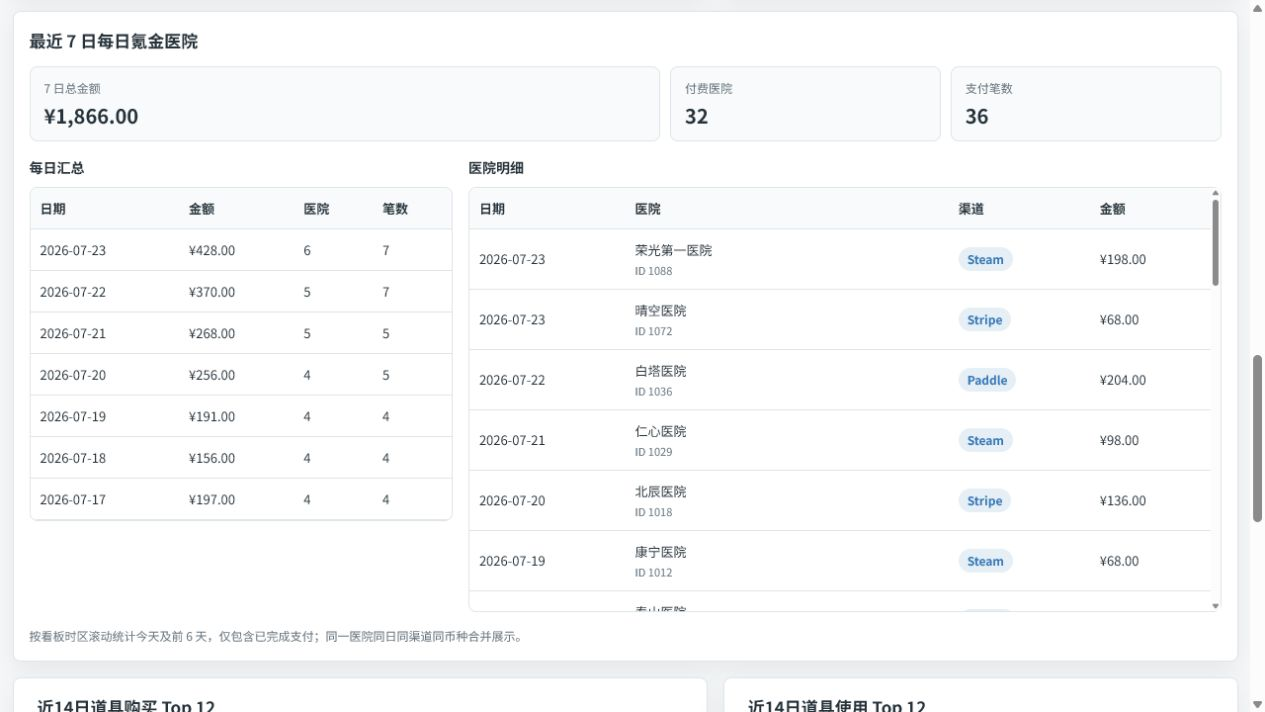
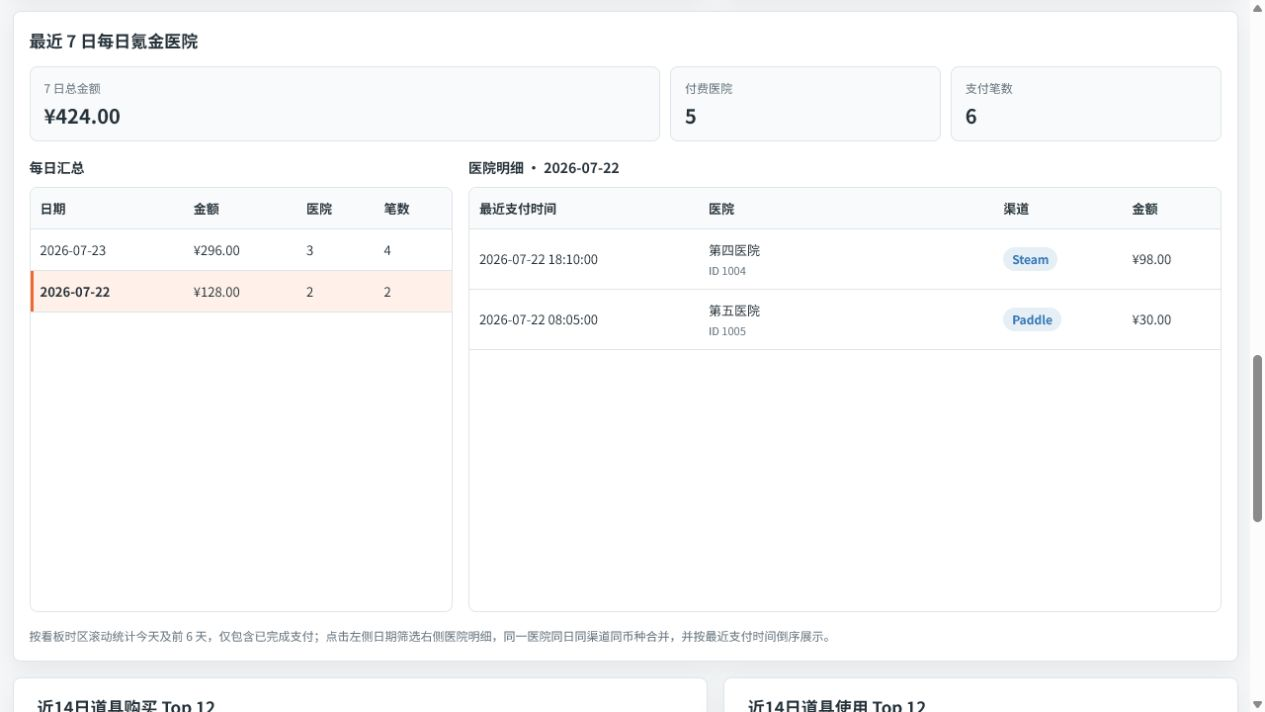
fix: link daily payment summary and details

diff --git a/app/templates/dashboard.html b/app/templates/dashboard.html
@@ -232,9 +232,14 @@
         .paying-hospital-grid { display: grid; grid-template-columns: minmax(320px, 0.72fr) minmax(520px, 1.28fr); gap: 16px; align-items: start; }
         .paying-hospital-grid > div { min-width: 0; }
         .paying-hospital-grid h3 { margin: 0 0 10px; font-size: 14px; }
-        .paying-hospital-scroll { max-height: 430px; overflow: auto; border: 1px solid var(--line); }
+        .paying-hospital-scroll { height: 430px; max-height: 430px; overflow: auto; border: 1px solid var(--line); }
         .paying-hospital-scroll thead { position: sticky; top: 0; z-index: 1; }
         .paying-summary-table { min-width: 380px; }
+        .paying-summary-row { cursor: pointer; }
+        .paying-summary-row:hover td { background: var(--teal-soft); }
+        .paying-summary-row.is-selected td { background: var(--primary-soft); }
+        .paying-summary-row.is-selected td:first-child { box-shadow: inset 3px 0 0 var(--primary); font-weight: 760; }
+        .paying-summary-row:focus-visible { outline: 3px solid rgba(7, 156, 156, 0.24); outline-offset: -3px; }
         .hospital-cell { display: grid; gap: 3px; min-width: 160px; }
         .hospital-cell small { color: var(--muted); font-size: 11px; }
         table { width: 100%; min-width: 620px; border-collapse: collapse; font-size: 13px; }
@@ -302,6 +307,7 @@
             .grid { grid-template-columns: 1fr; }
             .purchase-grid { grid-template-columns: 1fr; }
             .paying-hospital-grid { grid-template-columns: 1fr; }
+            .paying-hospital-scroll { height: auto; min-height: 220px; max-height: 430px; }
         }
         @media (max-width: 680px) {
             .shell { width: 100%; padding: 14px 12px 24px; }
@@ -401,13 +407,13 @@
                         </div>
                     </div>
                     <div>
-                        <h3>医院明细</h3>
+                        <h3 id="payingHospitalDetailTitle">医院明细</h3>
                         <div class="table-scroll paying-hospital-scroll">
-                            <table><thead><tr><th>日期</th><th>医院</th><th>渠道</th><th>金额</th></tr></thead><tbody id="payingHospitalRows"></tbody></table>
+                            <table><thead><tr><th>最近支付时间</th><th>医院</th><th>渠道</th><th>金额</th></tr></thead><tbody id="payingHospitalRows"></tbody></table>
                         </div>
                     </div>
                 </div>
-                <div class="note">按看板时区滚动统计今天及前 6 天，仅包含已完成支付；同一医院同日同渠道同币种合并展示。</div>
+                <div class="note">按看板时区滚动统计今天及前 6 天，仅包含已完成支付；点击左侧日期筛选右侧医院明细，同一医院同日同渠道同币种合并，并按最近支付时间倒序展示。</div>
             </div>
             <div class="panel">
                 <h2 class="chart-plot-title">近14日道具购买 Top 12</h2>
@@ -634,6 +640,7 @@
     let currentPage = 'overall';
     let statTableRequestId = 0;
     const statTableState = {tab: 'items', page: 1, pageSize: 20, total: 0};
+    const payingHospitalState = {data: null, selectedDay: null};
     const specialClinicState = {data: null, selectedWeekKey: null, latestWeekKey: null, userSelectedWeek: false, loadingWeekKey: null};
     const THEME_STORAGE_KEY = 'ops-dashboard-theme';
 
@@ -1135,14 +1142,57 @@
     }
 
     function renderPayingHospitals(data) {
+        payingHospitalState.data = data;
+        const days = [...new Set((data.dailySummary || []).map(row => row.day).filter(Boolean))].sort().reverse();
+        if (!days.includes(payingHospitalState.selectedDay)) payingHospitalState.selectedDay = days[0] || null;
         const totals = data.currencyTotals || [];
         setText('payingHospitalAmountTotal', totals.length ? totals.map(row => formatCurrencyAmount(row.amount, row.currency)).join(' / ') : '0.00');
         setText('payingHospitalCountTotal', formatNumber(data.hospitalCount));
         setText('payingHospitalOrderTotal', formatNumber(data.orderCount));
-        renderSimpleRows('payingHospitalSummaryRows', data.dailySummary || [], ['day', 'amount', 'hospital_count', 'orders'], {
-            amount: (value, row) => escapeHtml(formatCurrencyAmount(value, row.currency)),
+        renderPayingHospitalSummaryRows();
+        renderPayingHospitalDetailRows();
+    }
+
+    function selectPayingHospitalDay(day) {
+        if (!day || day === payingHospitalState.selectedDay) return;
+        payingHospitalState.selectedDay = day;
+        renderPayingHospitalSummaryRows();
+        renderPayingHospitalDetailRows();
+    }
+
+    function renderPayingHospitalSummaryRows() {
+        const tbody = document.getElementById('payingHospitalSummaryRows');
+        const rows = payingHospitalState.data?.dailySummary || [];
+        tbody.innerHTML = '';
+        if (!rows.length) {
+            tbody.innerHTML = '<tr><td colspan="4">没有数据</td></tr>';
+            return;
+        }
+        rows.forEach(row => {
+            const tr = document.createElement('tr');
+            const selected = row.day === payingHospitalState.selectedDay;
+            tr.className = `paying-summary-row${selected ? ' is-selected' : ''}`;
+            tr.dataset.payingDay = row.day || '';
+            tr.tabIndex = 0;
+            tr.setAttribute('aria-selected', selected ? 'true' : 'false');
+            tr.addEventListener('click', () => selectPayingHospitalDay(row.day));
+            tr.addEventListener('keydown', event => {
+                if (event.key !== 'Enter' && event.key !== ' ') return;
+                event.preventDefault();
+                selectPayingHospitalDay(row.day);
+            });
+            tr.innerHTML = `<td>${escapeHtml(row.day || '-')}</td><td>${escapeHtml(formatCurrencyAmount(row.amount, row.currency))}</td><td>${formatNumber(row.hospital_count)}</td><td>${formatNumber(row.orders)}</td>`;
+            tbody.appendChild(tr);
         });
-        renderSimpleRows('payingHospitalRows', data.rows || [], ['day', 'hospital_id', 'channel', 'amount'], {
+    }
+
+    function renderPayingHospitalDetailRows() {
+        const day = payingHospitalState.selectedDay;
+        const rows = (payingHospitalState.data?.rows || [])
+            .filter(row => row.day === day)
+            .sort((left, right) => String(right.last_payment_time || '').localeCompare(String(left.last_payment_time || '')));
+        setText('payingHospitalDetailTitle', day ? `医院明细 · ${day}` : '医院明细');
+        renderSimpleRows('payingHospitalRows', rows, ['last_payment_time', 'hospital_id', 'channel', 'amount'], {
             hospital_id: (value, row) => `<div class="hospital-cell"><span>${escapeHtml(row.hospital_name || '未命名医院')}</span><small>ID ${escapeHtml(value ?? '-')}</small></div>`,
             channel: value => `<span class="pill">${escapeHtml(value || '-')}</span>`,
             amount: (value, row) => escapeHtml(formatCurrencyAmount(value, row.currency)),

diff --git a/tests/test_app_contract.py b/tests/test_app_contract.py
@@ -263,6 +263,8 @@ class AppContractTest(unittest.TestCase):
         self.assertIn("where status = 'COMPLETED' and delivered is true", source)
         self.assertIn("PAYING_HOSPITAL_WINDOW_DAYS - 1", source)
         self.assertIn("left join t_hospitals h on h.id = o.hospital_id", source)
+        self.assertIn("to_char(max(o.update_time)", source)
+        self.assertIn("order by max(o.update_time) desc", source)
 
     def test_daily_paying_hospital_summary_keeps_currencies_separate(self):
         result = app_module.summarize_daily_paying_hospitals([
@@ -290,9 +292,17 @@ class AppContractTest(unittest.TestCase):
         self.assertIn('id="payingHospitalSummaryRows"', html)
         self.assertIn('id="payingHospitalRows"', html)
         self.assertIn("renderPayingHospitals", html)
+        self.assertIn("renderPayingHospitalSummaryRows", html)
+        self.assertIn("renderPayingHospitalDetailRows", html)
+        self.assertIn("selectPayingHospitalDay", html)
+        self.assertIn("payingHospitalState", html)
+        self.assertIn("dataset.payingDay", html)
         self.assertIn("paying-hospital-scroll", html)
+        self.assertIn("height: 430px; max-height: 430px", html)
+        self.assertIn("height: auto; min-height: 220px; max-height: 430px", html)
         self.assertIn(".paying-hospital-grid > div { min-width: 0; }", html)
-        self.assertIn("同一医院同日同渠道同币种合并展示", html)
+        self.assertIn("最近支付时间", html)
+        self.assertIn("点击左侧日期筛选右侧医院明细", html)
 
     def test_special_clinic_reward_charts_separate_items_and_resources(self):
         client = app.test_client()

diff --git a/app/app.py b/app/app.py
@@ -826,6 +826,7 @@ def load_daily_paying_hospitals(conn):
             where status = 'COMPLETED' and delivered is true
         )
         select ((o.update_time at time zone 'UTC' at time zone %s)::date)::text as day,
+               to_char(max(o.update_time) at time zone 'UTC' at time zone %s, 'YYYY-MM-DD HH24:MI:SS') as last_payment_time,
                o.hospital_id,
                coalesce(h.hospital_name, '') as hospital_name,
                o.channel,
@@ -836,10 +837,10 @@ def load_daily_paying_hospitals(conn):
         left join t_hospitals h on h.id = o.hospital_id
         where (o.update_time at time zone 'UTC' at time zone %s)::date
               >= (now() at time zone %s)::date - %s
-        group by 1, 2, 3, 4, 5
-        order by day desc, amount_minor desc, o.hospital_id desc, o.channel
+        group by 1, 3, 4, 5, 6
+        order by max(o.update_time) desc, o.hospital_id desc, o.channel
         """,
-        (ZONE_ID, ZONE_ID, ZONE_ID, PAYING_HOSPITAL_WINDOW_DAYS - 1),
+        (ZONE_ID, ZONE_ID, ZONE_ID, ZONE_ID, PAYING_HOSPITAL_WINDOW_DAYS - 1),
     )
     for row in rows:
         row["amount"] = major_amount(row.pop("amount_minor", 0))

diff --git a/docs/investigations/daily-paying-hospitals/test_results.md b/docs/investigations/daily-paying-hospitals/test_results.md
@@ -7,15 +7,18 @@
 
 ## 浏览器验证
 
-- 数据：本地模拟 32 条医院聚合明细和 7 条每日汇总。
-- 桌面视口：1440 x 1000。
-- 桌面结果：双栏布局生效，页面无横向溢出，医院明细区域 `scrollHeight=1994`、`clientHeight=428`，可纵向滚动；控制台 0 条警告和错误。
-- 桌面补充结果：1280 x 720 视口下每日汇总没有横向溢出，医院明细保持纵向滚动，页面没有横向溢出。
+- 数据：本地模拟 5 条医院聚合明细和 2 条每日汇总，明细输入顺序刻意打乱。
+- 桌面视口：1280 x 720。
+- 桌面结果：左右滚动区域高度均为 430；默认选中 `2026-07-23`，点击 `2026-07-22` 后右侧从 3 条切换为该日 2 条，时间依次为 `18:10:00`、`08:05:00`；页面没有横向溢出，控制台 0 条警告和错误。
 - 移动端视口：390 x 844。
-- 移动端结果：统计卡片和两张表改为单列；网格宽度 325，面板宽度 351，页面没有横向溢出；每日汇总和医院明细均可在自身区域横向滚动，医院明细同时可纵向滚动；控制台 0 条警告和错误。
+- 移动端结果：统计卡片和两张表改为单列，两个滚动区域按内容自适应且最小高度均为 220；页面没有横向溢出，表格可在自身区域横向滚动；控制台 0 条警告和错误。
 - 截图：`ui-verification-desktop.png`、`ui-verification-mobile.png`。
+
+## 生产只读 SQL
+
+- 执行位置：统计节点只读 PostgreSQL 连接。
+- 结果：返回 34 条聚合明细，前三条最近支付时间为 `2026-07-23 16:21:10`、`11:51:10`、`01:33:43`，全量结果按最近支付时间倒序。
 
 ## 未执行项
 
-- 生产数据库 SQL：本机缺少只读生产连接配置。
 - 本地页面的既有统计明细接口依赖生产库，测试环境返回 500；浏览器验证聚焦本次新增的氪金医院区域，新增区域由本地模拟数据驱动，浏览器控制台没有错误。

diff --git a/README.md b/README.md
@@ -60,7 +60,7 @@ docker compose down
 - 每日趋势图会用生产库近14日数据覆盖同日本地快照，快照日期按 `OPS_DASHBOARD_TIME_ZONE` 计算，避免早期或错日快照遮盖真实数据。
 - 数据库暂不可用时，页面仍返回空统计并在备注中显示数据源错误，避免首屏变成 500。
 - 顶部今日收入拆分为 Stripe 和 Steam 两张卡片，分别展示 CNY 金额、订单数和元宝。
-- 运营总览增加最近 7 日每日氪金医院清单。统计范围为看板时区内今天及前 6 天，Stripe、Paddle 仅纳入 `COMPLETED` 订单，Steam 仅纳入 `COMPLETED` 且已发货订单；明细按日期、医院、渠道和币种聚合金额，并同时展示每日汇总、7 日付费医院数、支付笔数和分币种总金额。明细与每日汇总使用固定高度滚动区域。
+- 运营总览增加最近 7 日每日氪金医院清单。统计范围为看板时区内今天及前 6 天，Stripe、Paddle 仅纳入 `COMPLETED` 订单，Steam 仅纳入 `COMPLETED` 且已发货订单；明细按日期、医院、渠道和币种聚合金额，并同时展示每日汇总、7 日付费医院数、支付笔数和分币种总金额。每日汇总与医院明细使用相同的固定高度；默认选中最新日期，点击或使用键盘选择左侧日期会筛选右侧明细，右侧按每组订单的最近支付时间倒序展示。
 - 图表区包含近14日元宝消耗按小时统计、滚动最近10周元宝消耗总量，以及滚动最近10周元宝购入量；消耗口径为 `t_log_yuanbao` 中 `old_value > new_value` 的减少量，购入口径为已完成支付订单的 `yuanbao_amount`，周统计按周一至周日聚合。
 - 图表下方提供道具、金钱、元宝、声望、公会、注册者统计页签，每页支持 20、50、100 条分页。
 - 页面刷新按钮显示当前页签状态；后台加载中的其他页签在页签按钮上独立显示旋转状态。

diff --git a/docs/investigations/daily-paying-hospitals/FINAL_RECEIPT.md b/docs/investigations/daily-paying-hospitals/FINAL_RECEIPT.md
@@ -1,7 +1,7 @@
 # 最终回执
 
 - 状态：完成
-- 交付内容：最近 7 日每日氪金医院明细、每日汇总、7 日总览、滚动列表、需求说明、自动化测试。
-- 验证状态：40 项单元测试、桌面浏览器检查、移动端浏览器检查、控制台检查和两张截图均已通过。
-- 数据验证范围：浏览器使用本地模拟数据；本机未配置生产只读数据库，生产 SQL 未执行。
+- 交付内容：最近 7 日每日氪金医院明细、每日汇总、7 日总览、同高双栏、左侧日期筛选、最近支付时间倒序、响应式滚动列表、需求说明和自动化测试。
+- 验证状态：40 项单元测试、生产只读 SQL、桌面点击联动、移动端布局、控制台检查和两张截图均已通过。
+- 数据验证范围：浏览器交互使用本地模拟数据；新增 SQL 已在统计节点只读生产连接执行成功。
 - 提交状态：本回执随实现提交。

diff --git a/docs/investigations/daily-paying-hospitals/investigation_report.md b/docs/investigations/daily-paying-hospitals/investigation_report.md
@@ -18,8 +18,10 @@
 - 金额：同粒度订单金额合计，最小货币单位除以 100。
 - 每日汇总：按日期和币种汇总金额、医院数和订单数。
 - 7 日总览：按币种展示总金额，同时展示去重付费医院数和订单数。
-- 展示顺序：日期倒序，同日按金额倒序。
+- 展示顺序：左侧日期倒序；右侧选中日期的明细按最近支付时间倒序。
 - 页面交互：每日汇总和医院明细放入固定高度滚动区域，明细表头固定。
+- 联动交互：左右滚动区域保持同高，默认选中最新日期；点击或使用键盘选择左侧日期后，右侧只显示该日明细。
+- 明细顺序：每个日期、医院、渠道、币种聚合行返回最近支付时间，右侧按该时间倒序展示。
 
 ## 风险与限制
 
